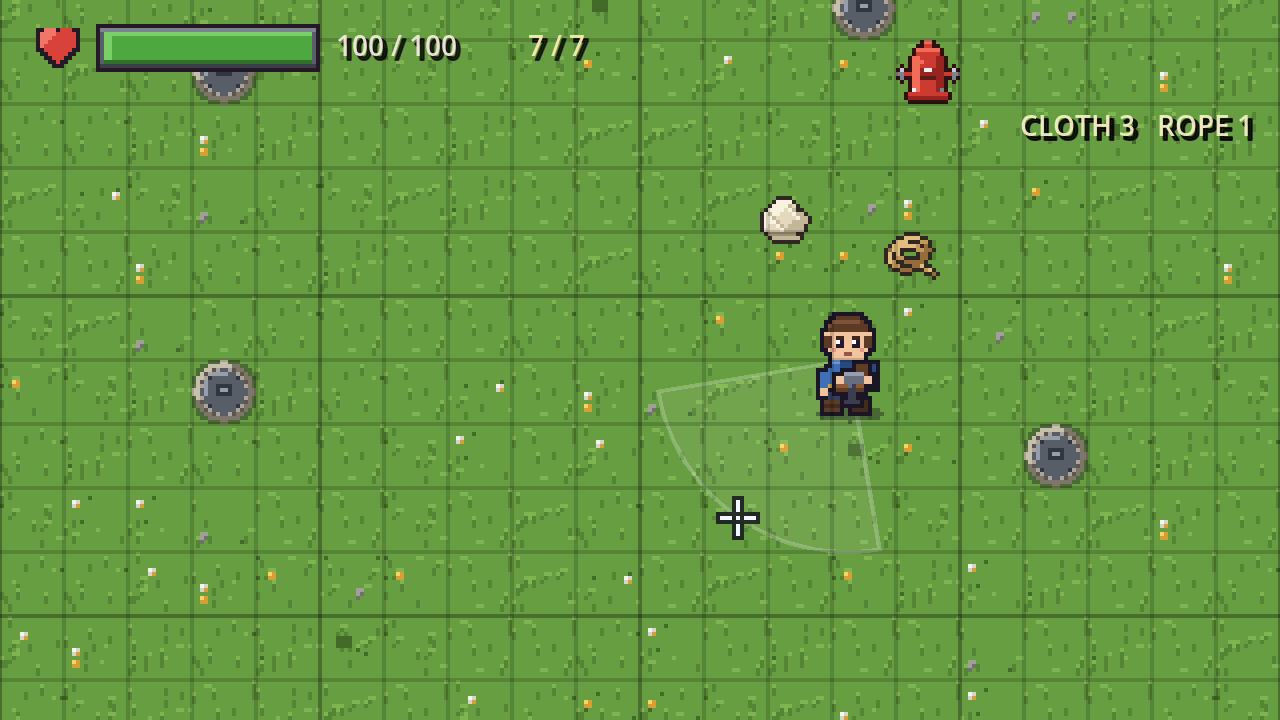
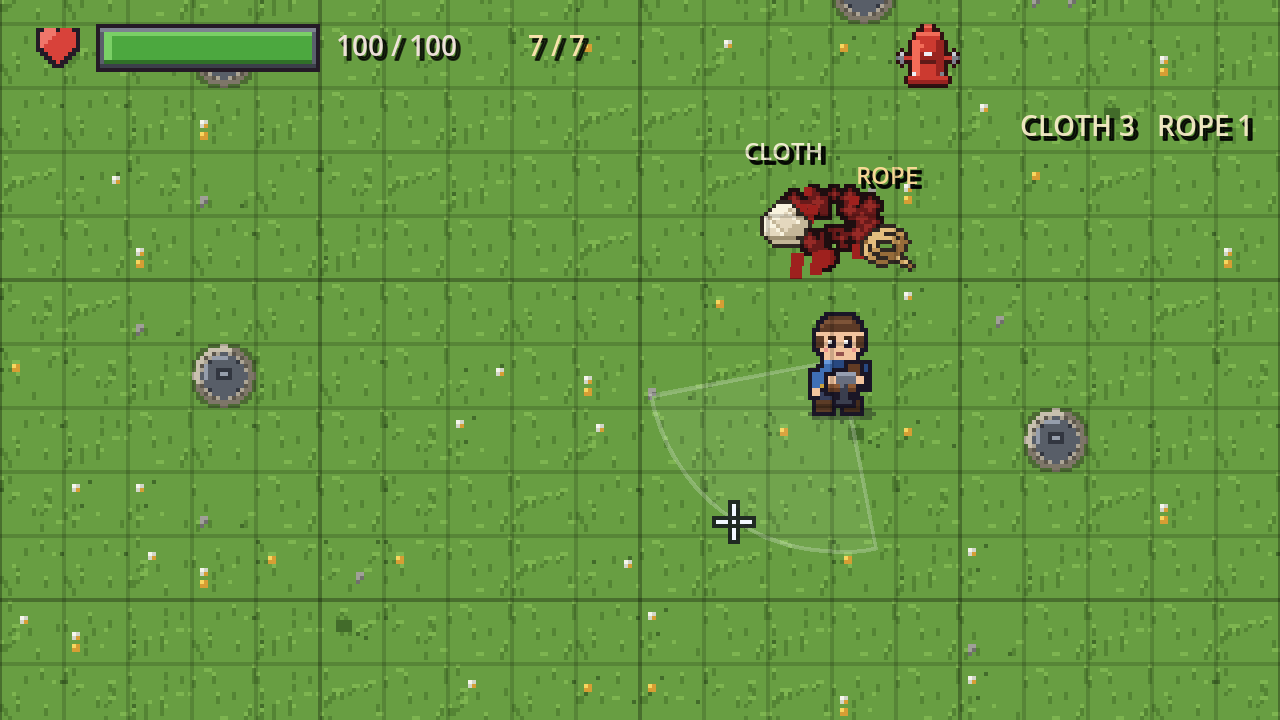
feat: 掉落物画在血迹上面（z=3），头顶暂时显示物品名字

diff --git a/README.md b/README.md
@@ -613,8 +613,9 @@ after 3.5s-> 0 只（确认不再刷）
   **面板里暂时不列建筑和配方**，只显示 `NO RECIPES YET`，等做了配方表再往里填。
 - **击杀掉落**：普通僵尸死亡时独立判定 —— **25% 掉 1 个布料**、**10% 掉 1 个绳子**
   （`zombie.gd::_die()`，400 只实测 24.5% / 10.8%）。掉落物是 `scenes/pickup.tscn`（Area2D，
-  上下轻浮），玩家走过去自动捡起，数量存在 `GameState.cloth / rope`，草地右上角 HUD 显示
-  `CLOTH n  ROPE n`。
+  上下轻浮、**画在血迹上面**（掉落物 `z_index = 3`，血迹是 2），头顶暂时显示物品名字 `CLOTH` / `ROPE`
+  （以后换成图标就能删掉这个 Label）；玩家走过去自动捡起，数量存在 `GameState.cloth / rope`，
+  草地右上角 HUD 显示 `CLOTH n  ROPE n`。
 - **消防栓（草地）**：`scenes/hydrant.tscn`，摆在草地 `(232, 104)`。被子弹打中（在武器的射程/扇形内）
   会喷水花 0.55 秒，随后在脚下铺开 **3×3 的水洼**（`water_puddle.png`，4 帧涟漪循环）。
   子弹判定在 `player.gd::_apply_shot_hits()` 里顺带检查 `hydrants` 组。
